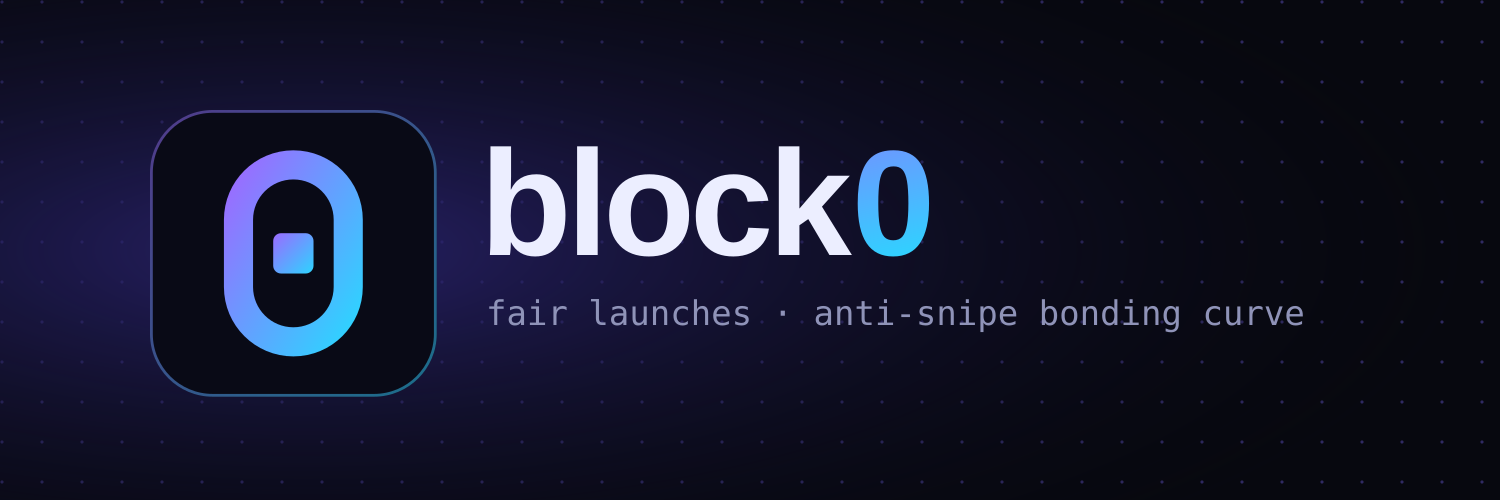
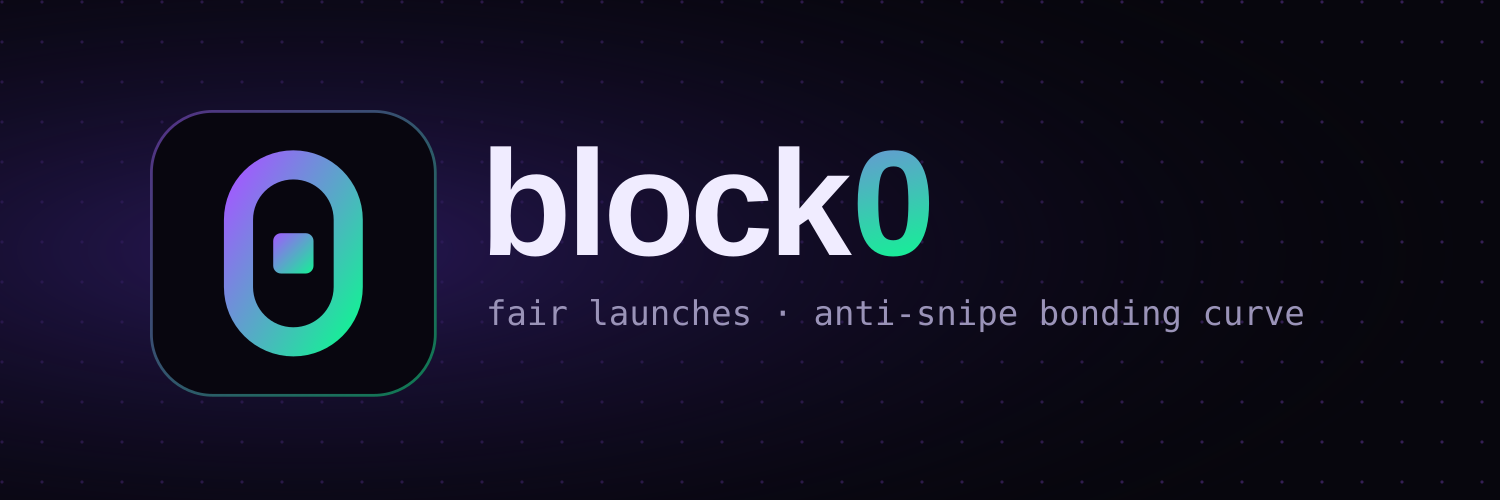
Violet and mint palette, animated node-network background
Canvas background with drifting nodes that link to the cursor, floating hex
hashes and rising outlined blocks. Logo, favicons and banner recolored.

Claude-Session: https://claude.ai/code/session_01XJUnd99Fo1xhCxdk2HdmSs

diff --git a/src/styles.css b/src/styles.css
@@ -1,19 +1,21 @@
-/* Midnight Chain: near-black blue, a violet-to-cyan gradient, node grid, scanlines, corner-bracket frames, mono labels. Dark only. */
+/* Midnight Chain: near-black violet, violet-to-mint gradient, animated node-network background, scanlines, corner-bracket frames, mono labels. Dark only. */
 :root {
   --font-display: 'Space Grotesk', system-ui, sans-serif;
   --font-body: 'Space Grotesk', system-ui, sans-serif;
   --font-mono: 'JetBrains Mono', ui-monospace, Menlo, monospace;
-  --bg: #04050b;
-  --surface: #090b1a;
-  --surface-2: #161934;
-  --line: #1f2650;
-  --fg: #eceeff;
-  --muted: #8f93b8;
-  --accent: #6f5cff;
-  --accent-2: #19e0ff;
+  --bg: #07060d;
+  --surface: #0f0c1c;
+  --surface-2: #1a1530;
+  --line: #2b2248;
+  --fg: #f0ecff;
+  --muted: #9a93b8;
+  --accent: #a259ff;
+  --accent-2: #14f195;
   --accent-ink: #ffffff;
-  --accent-text: #8fe8ff;
-  --grad: linear-gradient(120deg, #8b5cf6 0%, #3d8bff 52%, #19e0ff 100%);
+  --accent-text: #5af5bb;
+  --grad: linear-gradient(120deg, #a259ff 0%, #14f195 100%);
+  --grad: linear-gradient(120deg in oklab, #a259ff 0%, #14f195 100%);
+  --btn: linear-gradient(120deg, #9b4dff 0%, #d946ef 100%);
   --ok: #3dffb0;
   --bad: #ff8a7a;
   color-scheme: dark;
@@ -23,9 +25,9 @@
 body {
   margin: 0; color: var(--fg); font: 15px/1.5 var(--font-body); background-color: var(--bg);
   background-image:
-    radial-gradient(900px 480px at 12% -8%, rgba(124, 92, 255, 0.22), transparent 70%),
-    radial-gradient(800px 460px at 95% 4%, rgba(45, 212, 255, 0.13), transparent 70%),
-    radial-gradient(rgba(124, 108, 255, 0.28) 1px, transparent 1.4px);
+    radial-gradient(900px 480px at 10% -8%, rgba(162, 89, 255, 0.22), transparent 70%),
+    radial-gradient(800px 460px at 96% 6%, rgba(20, 241, 149, 0.09), transparent 70%),
+    radial-gradient(rgba(162, 89, 255, 0.2) 1px, transparent 1.4px);
   background-size: auto, auto, 36px 36px;
   background-attachment: fixed;
 }
@@ -51,7 +53,7 @@ img { max-width: 100%; }
 
 /* ---------- header ---------- */
 .banner { background: var(--surface-2); color: var(--muted); font: 12px/1.4 var(--font-mono); text-align: center; padding: 7px 16px; }
-.top { border-bottom: 1px solid var(--line); background: rgba(7, 8, 15, 0.82); backdrop-filter: blur(10px); position: sticky; top: 0; z-index: 10; }
+.top { border-bottom: 1px solid var(--line); background: rgba(7, 6, 13, 0.8); backdrop-filter: blur(10px); position: sticky; top: 0; z-index: 10; }
 .top-in { display: flex; flex-wrap: wrap; align-items: center; gap: 10px 20px; padding-block: 12px; }
 .brand { display: flex; align-items: center; gap: 9px; color: var(--fg); text-decoration: none; font: 700 21px var(--font-display); letter-spacing: -0.02em; }
 .mark { width: 32px; height: 32px; border-radius: 8px; display: block; }
@@ -63,8 +65,8 @@ img { max-width: 100%; }
 .wallet-area { margin-left: auto; display: flex; flex-wrap: wrap; align-items: center; gap: 10px; }
 .bal { border: 1px solid var(--line); background: var(--surface); border-radius: 6px; padding: 7px 14px; font-size: 13px; }
 .wallet-adapter-button { font-family: var(--font-body) !important; border-radius: 6px !important; height: 40px !important; }
-.wallet-adapter-button-trigger { background-color: var(--accent) !important; background-image: var(--grad) !important; color: var(--accent-ink) !important; }
-.wallet-adapter-button-trigger:not([disabled]):hover { background-color: var(--accent) !important; background-image: var(--grad) !important; filter: brightness(1.1); }
+.wallet-adapter-button-trigger { background-color: var(--accent) !important; background-image: var(--btn) !important; color: var(--accent-ink) !important; }
+.wallet-adapter-button-trigger:not([disabled]):hover { background-color: var(--accent) !important; background-image: var(--btn) !important; filter: brightness(1.1); }
 @media (max-width: 700px) {
   .nav { order: 3; width: 100%; }
   .nav a { flex: 1; text-align: center; }
@@ -74,11 +76,11 @@ img { max-width: 100%; }
 /* ---------- shared pieces ---------- */
 .btn { display: inline-flex; align-items: center; justify-content: center; gap: 8px; border: 1px solid var(--line); background: var(--surface-2); color: var(--fg); text-decoration: none; padding: 9px 16px; border-radius: 6px; font-weight: 600; cursor: pointer; }
 .btn:hover:not(:disabled) { border-color: var(--muted); }
-.btn.primary { background: var(--grad); border-color: transparent; color: var(--accent-ink); box-shadow: 0 6px 22px rgba(95, 110, 255, 0.28); }
+.btn.primary { background: var(--btn); border-color: transparent; color: var(--accent-ink); box-shadow: 0 6px 22px rgba(190, 80, 255, 0.3); }
 .btn.primary:hover:not(:disabled) { filter: brightness(1.08); }
 .btn.wide { width: 100%; padding: 13px 18px; }
 .btn:disabled { opacity: 0.55; cursor: default; }
-.card { background: linear-gradient(180deg, rgba(22, 25, 52, 0.55), rgba(14, 16, 32, 0.9)); border: 1px solid var(--line); border-radius: 12px; padding: 18px; min-width: 0; }
+.card { background: linear-gradient(180deg, rgba(26, 21, 48, 0.55), rgba(15, 12, 28, 0.88)); border: 1px solid var(--line); border-radius: 12px; padding: 18px; min-width: 0; }
 .card { position: relative; }
 .card::before, .card::after { content: ''; position: absolute; width: 12px; height: 12px; border: 0 solid var(--accent-2); opacity: 0.55; pointer-events: none; }
 .card::before { top: -1px; left: -1px; border-width: 2px 0 0 2px; border-top-left-radius: 12px; }
@@ -103,14 +105,14 @@ img { max-width: 100%; }
 
 /* ---------- explore ---------- */
 .hero { padding-block: 40px 28px; }
-.hero h1 { text-shadow: 0 0 40px rgba(111, 92, 255, 0.35); font-size: clamp(2.3rem, 6vw, 3.75rem); font-weight: 700; line-height: 1.02; letter-spacing: -0.035em; margin-block: 10px 16px; max-width: 20ch; }
+.hero h1 { text-shadow: 0 0 40px rgba(162, 89, 255, 0.35); font-size: clamp(2.3rem, 6vw, 3.75rem); font-weight: 700; line-height: 1.02; letter-spacing: -0.035em; margin-block: 10px 16px; max-width: 20ch; }
 .cta { display: flex; flex-wrap: wrap; gap: 10px; margin-top: 22px; }
 .filters { display: flex; flex-wrap: wrap; align-items: center; justify-content: space-between; gap: 12px; padding-bottom: 16px; }
 .filters h2 { font-size: 22px; }
 .filters .search { flex: 1 1 220px; max-width: 320px; }
 .grid { display: grid; gap: 14px; grid-template-columns: repeat(auto-fill, minmax(280px, 1fr)); }
 .coincard { display: grid; gap: 12px; align-content: start; color: inherit; text-decoration: none; transition: border-color 0.15s, transform 0.15s; }
-.coincard:hover { border-color: var(--accent); transform: translateY(-2px); box-shadow: 0 10px 30px rgba(124, 92, 255, 0.18); }
+.coincard:hover { border-color: var(--accent); transform: translateY(-2px); box-shadow: 0 10px 30px rgba(162, 89, 255, 0.18); }
 .cc-top { display: flex; align-items: center; gap: 12px; min-width: 0; }
 .cc-top img { width: 56px; height: 56px; border-radius: 14px; object-fit: cover; flex: none; background: var(--surface-2); }
 .cc-id { min-width: 0; }
@@ -183,7 +185,7 @@ textarea { resize: vertical; }
 .trade { display: grid; gap: 12px; margin-bottom: 16px; max-width: 440px; }
 .seg { display: grid; grid-template-columns: 1fr 1fr; gap: 4px; padding: 4px; border-radius: 12px; background: var(--surface-2); }
 .seg button { border: 0; background: transparent; color: var(--muted); padding: 8px; border-radius: 9px; font: inherit; font-weight: 600; cursor: pointer; }
-.seg button.on { background: var(--grad); color: var(--accent-ink); }
+.seg button.on { background: var(--btn); color: var(--accent-ink); }
 .linkbtn { background: none; border: 0; color: var(--accent-text); cursor: pointer; padding: 4px 0; text-align: left; font: inherit; }
 .progress { position: relative; height: 22px; border-radius: 999px; background: var(--surface-2); overflow: hidden; }
 .progress > div { position: absolute; inset: 0 auto 0 0; background: var(--grad); opacity: 0.45; }
@@ -210,7 +212,7 @@ textarea { resize: vertical; }
 .snipe-t { width: 100%; border-collapse: collapse; margin-top: 10px; }
 .snipe-t th, .snipe-t td { text-align: left; padding: 4px 0; border-top: 1px solid var(--line); }
 .snipe-t th { color: var(--muted); font-weight: 600; border-top: 0; }
-.snipe { border-color: rgba(124, 92, 255, 0.45); box-shadow: inset 0 0 0 1px rgba(45, 212, 255, 0.06), 0 0 40px rgba(124, 92, 255, 0.1); }
+.snipe { border-color: rgba(162, 89, 255, 0.45); box-shadow: inset 0 0 0 1px rgba(20, 241, 149, 0.06), 0 0 40px rgba(162, 89, 255, 0.1); }
 .hero h1 .grad { display: inline-block; }
 
 /* scanlines: a very faint horizontal line pattern over everything */
@@ -231,6 +233,10 @@ body::after { content: ''; position: fixed; inset: 0; pointer-events: none; z-in
 .blk-n { font-size: 11px; color: var(--accent-text); letter-spacing: 0.08em; }
 .blk-bar { display: block; height: 3px; margin-top: 8px; border-radius: 2px; background: var(--line); overflow: hidden; }
 .blk-bar i { display: block; height: 100%; background: var(--grad); }
-.blk0 { border-color: transparent; background: linear-gradient(var(--surface), var(--surface)) padding-box, var(--grad) border-box; box-shadow: 0 0 32px rgba(111, 92, 255, 0.35); }
+.blk0 { border-color: transparent; background: linear-gradient(var(--surface), var(--surface)) padding-box, var(--grad) border-box; box-shadow: 0 0 32px rgba(162, 89, 255, 0.35); }
 .blk0 .blk-bar i { background: var(--ok); }
 @media (prefers-reduced-motion: reduce) { .link::after { animation: none; } }
+
+/* animated background canvas (src/lib/bgfx.ts) sits behind everything */
+.bgfx { position: fixed; inset: 0; z-index: 0; pointer-events: none; }
+#root { position: relative; z-index: 1; }

diff --git a/src/lib/bgfx.ts b/src/lib/bgfx.ts
@@ -1,0 +1,138 @@
+// Animated background for the whole site: a drifting node network that reaches toward the cursor, hex hashes floating up,
+// and outlined blocks rising and fading. Pure canvas, no dependencies. Returns a stop function.
+const VIOLET = '162,89,255';
+const MINT = '20,241,149';
+
+type Node = { x: number; y: number; vx: number; vy: number; r: number; mint: boolean };
+type Tag = { x: number; y: number; vy: number; text: string; a: number };
+type Blk = { x: number; y: number; s: number; rot: number; vr: number; vy: number; life: number; max: number; mint: boolean };
+
+const hex = (n: number) => Array.from({ length: n }, () => '0123456789abcdef'[(Math.random() * 16) | 0]).join('');
+const rand = (a: number, b: number) => a + Math.random() * (b - a);
+
+export function startBackground(canvas: HTMLCanvasElement): () => void {
+  const ctx = canvas.getContext('2d');
+  if (!ctx) return () => {};
+  const reduce = window.matchMedia('(prefers-reduced-motion: reduce)').matches;
+  let w = 0, h = 0, raf = 0, stopped = false;
+  let nodes: Node[] = [], tags: Tag[] = [], blks: Blk[] = [];
+  const mouse = { x: -9999, y: -9999 };
+
+  const mkTag = (anywhere: boolean): Tag => ({ x: rand(0, w), y: anywhere ? rand(0, h) : h + 20, vy: rand(0.12, 0.35), text: `0x${hex(4)}…${hex(4)}`, a: rand(0.06, 0.16) });
+  const mkBlk = (anywhere: boolean): Blk => ({ x: rand(0, w), y: anywhere ? rand(0, h) : h + 40, s: rand(14, 34), rot: rand(0, Math.PI), vr: rand(-0.004, 0.004), vy: rand(0.15, 0.4), life: anywhere ? rand(0, 600) : 0, max: rand(500, 900), mint: Math.random() < 0.35 });
+
+  function resize() {
+    const dpr = Math.min(window.devicePixelRatio || 1, 2);
+    w = window.innerWidth;
+    h = window.innerHeight;
+    canvas.width = Math.round(w * dpr);
+    canvas.height = Math.round(h * dpr);
+    canvas.style.width = `${w}px`;
+    canvas.style.height = `${h}px`;
+    ctx!.setTransform(dpr, 0, 0, dpr, 0, 0);
+    const n = Math.max(24, Math.min(70, Math.round((w * h) / 22000)));
+    nodes = Array.from({ length: n }, () => ({ x: rand(0, w), y: rand(0, h), vx: rand(-0.18, 0.18), vy: rand(-0.18, 0.18), r: rand(1, 2.2), mint: Math.random() < 0.3 }));
+    tags = Array.from({ length: Math.max(8, Math.min(22, Math.round(w / 70))) }, () => mkTag(true));
+    blks = Array.from({ length: Math.max(5, Math.min(10, Math.round(w / 180))) }, () => mkBlk(true));
+  }
+
+  function frame() {
+    ctx!.clearRect(0, 0, w, h);
+    const LINK = 150;
+
+    // links between nearby nodes, then from the cursor to nearby nodes
+    for (let i = 0; i < nodes.length; i++) {
+      const a = nodes[i];
+      for (let j = i + 1; j < nodes.length; j++) {
+        const b = nodes[j];
+        const d = Math.hypot(a.x - b.x, a.y - b.y);
+        if (d < LINK) {
+          ctx!.strokeStyle = `rgba(${VIOLET},${(1 - d / LINK) * 0.22})`;
+          ctx!.lineWidth = 1;
+          ctx!.beginPath();
+          ctx!.moveTo(a.x, a.y);
+          ctx!.lineTo(b.x, b.y);
+          ctx!.stroke();
+        }
+      }
+      const dm = Math.hypot(a.x - mouse.x, a.y - mouse.y);
+      if (dm < 190) {
+        ctx!.strokeStyle = `rgba(${MINT},${(1 - dm / 190) * 0.5})`;
+        ctx!.beginPath();
+        ctx!.moveTo(a.x, a.y);
+        ctx!.lineTo(mouse.x, mouse.y);
+        ctx!.stroke();
+      }
+    }
+
+    for (const n of nodes) {
+      if (!reduce) {
+        n.x += n.vx;
+        n.y += n.vy;
+        if (n.x < -10) n.x = w + 10;
+        if (n.x > w + 10) n.x = -10;
+        if (n.y < -10) n.y = h + 10;
+        if (n.y > h + 10) n.y = -10;
+      }
+      ctx!.fillStyle = `rgba(${n.mint ? MINT : VIOLET},${n.mint ? 0.8 : 0.65})`;
+      ctx!.beginPath();
+      ctx!.arc(n.x, n.y, n.r, 0, Math.PI * 2);
+      ctx!.fill();
+    }
+
+    // hex hashes drifting up
+    ctx!.font = '11px "JetBrains Mono", ui-monospace, monospace';
+    for (let i = 0; i < tags.length; i++) {
+      const t = tags[i];
+      if (!reduce) t.y -= t.vy;
+      if (t.y < -20) tags[i] = mkTag(false);
+      ctx!.fillStyle = `rgba(${MINT},${t.a})`;
+      ctx!.fillText(t.text, t.x, t.y);
+    }
+
+    // outlined blocks rising, fading in and out
+    for (let i = 0; i < blks.length; i++) {
+      const b = blks[i];
+      if (!reduce) {
+        b.y -= b.vy;
+        b.rot += b.vr;
+        b.life += 1;
+      }
+      if (b.life > b.max || b.y < -60) blks[i] = mkBlk(false);
+      const k = Math.sin(Math.min(1, b.life / b.max) * Math.PI); // 0 → 1 → 0
+      ctx!.save();
+      ctx!.translate(b.x, b.y);
+      ctx!.rotate(b.rot);
+      ctx!.strokeStyle = `rgba(${b.mint ? MINT : VIOLET},${0.05 + k * 0.28})`;
+      ctx!.lineWidth = 1.4;
+      ctx!.strokeRect(-b.s / 2, -b.s / 2, b.s, b.s);
+      ctx!.strokeRect(-b.s / 6, -b.s / 6, b.s / 3, b.s / 3);
+      ctx!.restore();
+    }
+
+    if (!reduce && !stopped) raf = requestAnimationFrame(frame);
+  }
+
+  const onMove = (e: PointerEvent) => { mouse.x = e.clientX; mouse.y = e.clientY; };
+  const onLeave = () => { mouse.x = mouse.y = -9999; };
+  const onVisible = () => {
+    cancelAnimationFrame(raf);
+    if (!document.hidden && !reduce && !stopped) raf = requestAnimationFrame(frame);
+  };
+
+  resize();
+  window.addEventListener('resize', resize);
+  window.addEventListener('pointermove', onMove, { passive: true });
+  window.addEventListener('pointerleave', onLeave);
+  document.addEventListener('visibilitychange', onVisible);
+  frame();
+
+  return () => {
+    stopped = true;
+    cancelAnimationFrame(raf);
+    window.removeEventListener('resize', resize);
+    window.removeEventListener('pointermove', onMove);
+    window.removeEventListener('pointerleave', onLeave);
+    document.removeEventListener('visibilitychange', onVisible);
+  };
+}

diff --git a/src/App.tsx b/src/App.tsx
@@ -8,6 +8,7 @@ import Explore from './pages/Explore';
 import Launch from './pages/Launch';
 import CoinPage from './pages/CoinPage';
 import Admin from './pages/Admin';
+import BackgroundFx from './components/BackgroundFx';
 
 function Mark() {
   return <img className="mark" src="/logo.png" width={32} height={32} alt="" />;
@@ -62,6 +63,7 @@ export default function App() {
 
   return (
     <>
+      <BackgroundFx />
       <div className="banner">
         {IS_MAINNET ? (
           <>Live on Solana mainnet. Real money: memecoins are extremely risky, you can lose everything. Not financial advice.</>

diff --git a/index.html b/index.html
@@ -6,7 +6,7 @@
     <link rel="icon" type="image/svg+xml" href="/favicon.svg" />
     <link rel="icon" type="image/png" sizes="64x64" href="/favicon.png" />
     <link rel="apple-touch-icon" href="/apple-touch-icon.png" />
-    <meta name="theme-color" content="#04050b" />
+    <meta name="theme-color" content="#07060d" />
     <title>Block0 – Fair launches on a Meteora bonding curve</title>
     <link rel="preconnect" href="https://fonts.googleapis.com" />
     <link rel="preconnect" href="https://fonts.gstatic.com" crossorigin />

diff --git a/src/components/BackgroundFx.tsx b/src/components/BackgroundFx.tsx
@@ -1,0 +1,9 @@
+import { useEffect, useRef } from 'react';
+import { startBackground } from '../lib/bgfx';
+
+// Fixed, click-through canvas behind the whole site. See src/lib/bgfx.ts.
+export default function BackgroundFx() {
+  const ref = useRef<HTMLCanvasElement>(null);
+  useEffect(() => (ref.current ? startBackground(ref.current) : undefined), []);
+  return <canvas ref={ref} className="bgfx" aria-hidden="true" />;
+}
